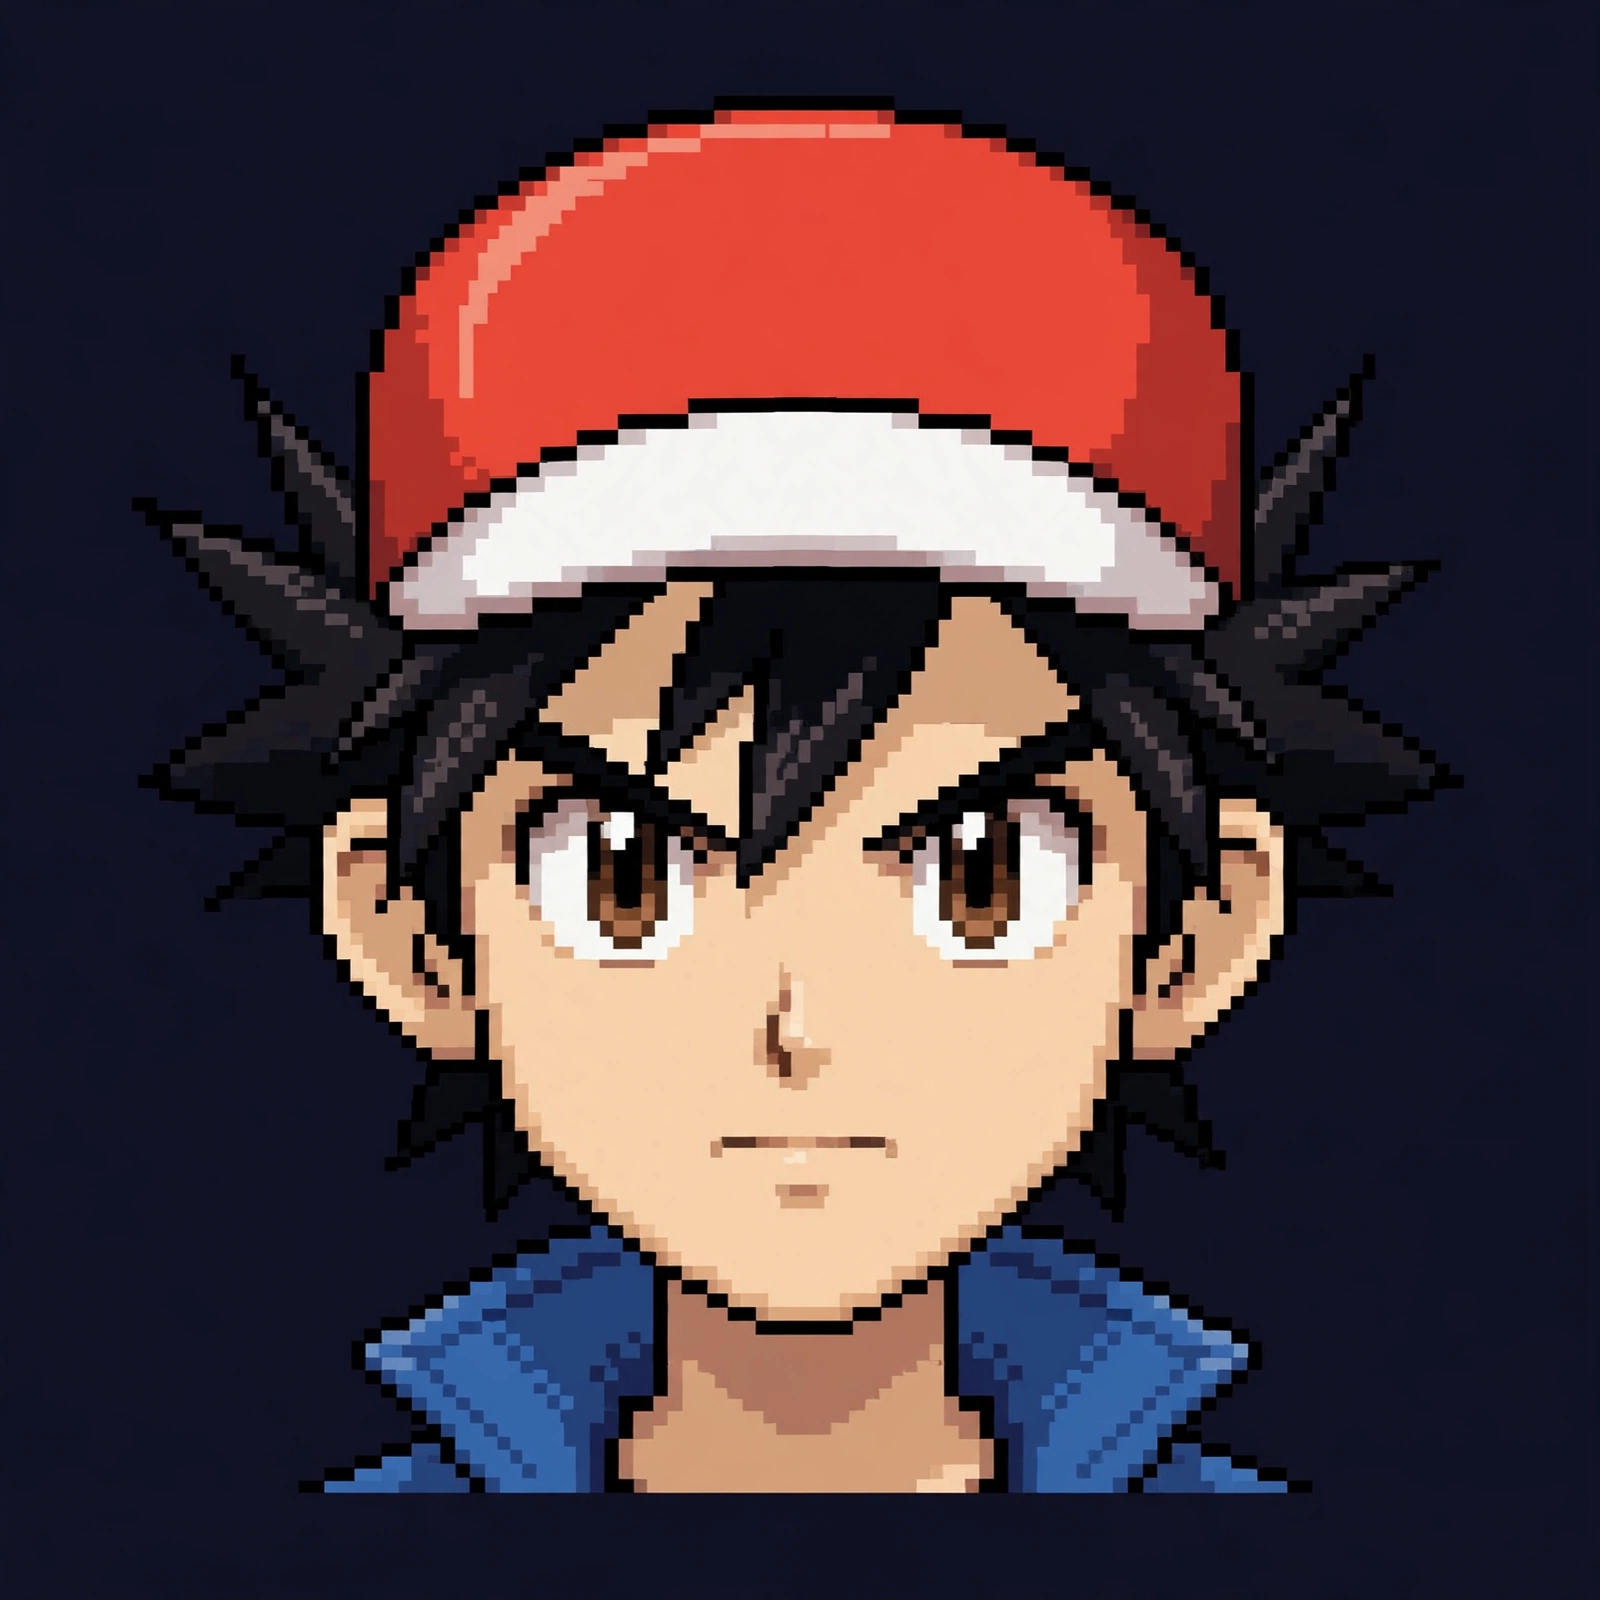
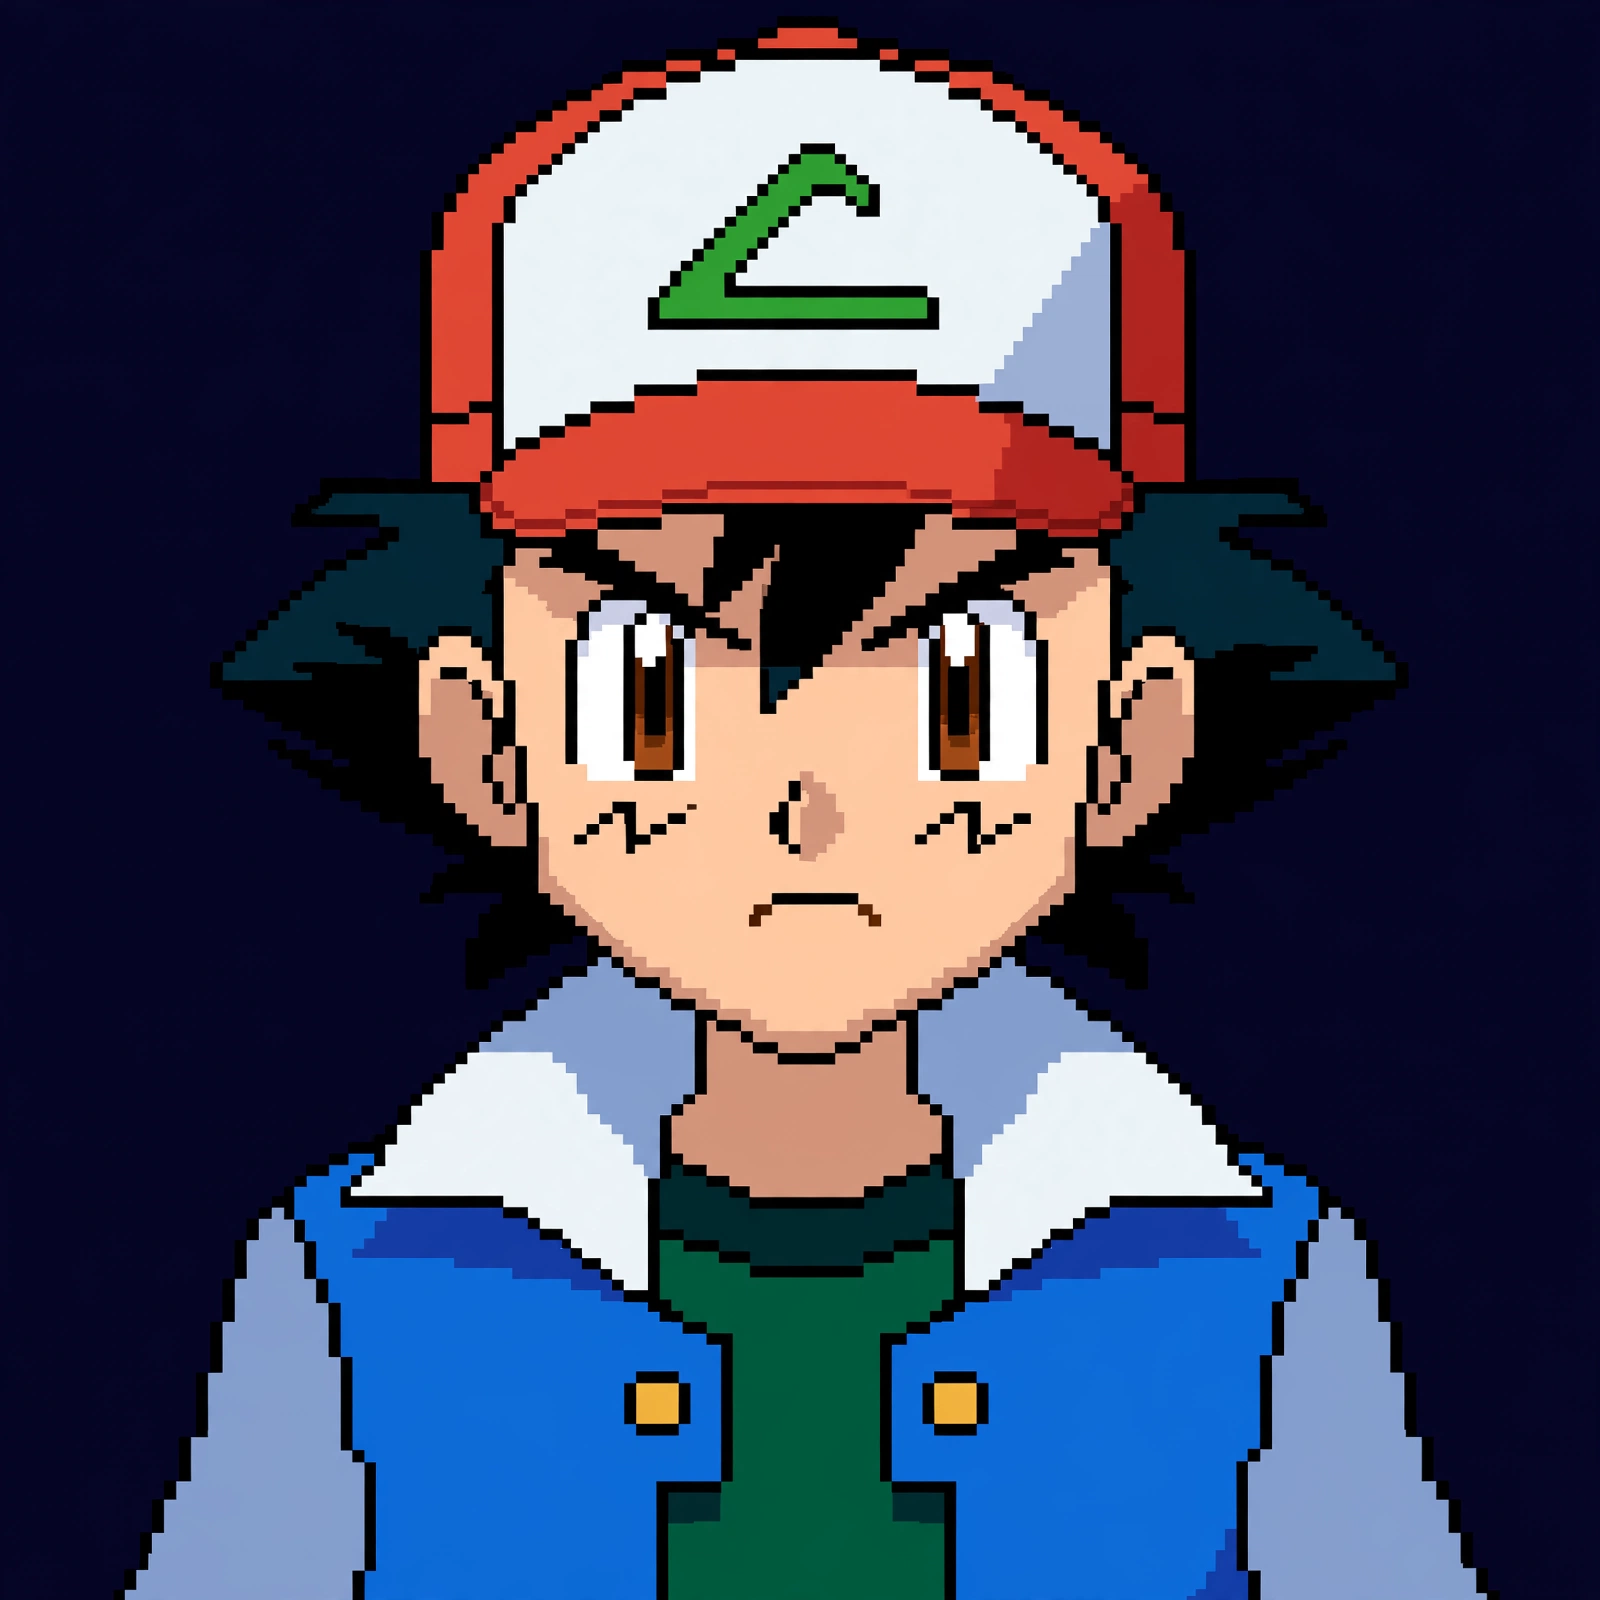
1세대 애니 스타일 트레이너 얼굴 교체

diff --git a/src/ui/main.js b/src/ui/main.js
@@ -1,12 +1,12 @@
 // DOM glue: renders controller state into regions, wires taps, and paces AI turns.
 
-import { CARDS } from '../data/cards.js?v=1791267915';
-import { ACHIEVEMENTS, checkAchievements } from '../data/achievements.js?v=1791267915';
-import { CHALLENGES, challengeWon } from '../data/challenges.js?v=1791267915';
-import { createController } from './controller.js?v=1791267915';
-import * as V from './view.js?v=1791267915';
-import { getBonuses, getPoints, bonusList } from '../core/engine.js?v=1791267915';
-import { browserStorage, loadDex, loadSave, saveGame, clearSave, recordCatch, recordGame, loadOptions, saveOptions, loadAchv, unlockAchv, loadRecords, recordResult, victoryScore, loadChal, completeChal } from '../storage/store.js?v=1791267915';
+import { CARDS } from '../data/cards.js?v=1791268011';
+import { ACHIEVEMENTS, checkAchievements } from '../data/achievements.js?v=1791268011';
+import { CHALLENGES, challengeWon } from '../data/challenges.js?v=1791268011';
+import { createController } from './controller.js?v=1791268011';
+import * as V from './view.js?v=1791268011';
+import { getBonuses, getPoints, bonusList } from '../core/engine.js?v=1791268011';
+import { browserStorage, loadDex, loadSave, saveGame, clearSave, recordCatch, recordGame, loadOptions, saveOptions, loadAchv, unlockAchv, loadRecords, recordResult, victoryScore, loadChal, completeChal } from '../storage/store.js?v=1791268011';
 
 const params = new URLSearchParams(location.search);
 const AI_DELAY = params.has('fast') ? 0 : 1600; // ?fast=1 skips the pacing delay (tests)

diff --git a/src/ui/view.js b/src/ui/view.js
@@ -1,12 +1,12 @@
 // Pure HTML-string renderers. Each takes the controller and returns markup; main.js owns the DOM.
 // All text interpolated here comes from our own card data / constants (no user input).
 
-import { COLORS, MASTER, PHASES, TOKEN_KEYS } from '../core/constants.js?v=1791267915';
-import { getBonuses, getPoints, tokenCount, bonusList, isSpecial } from '../core/engine.js?v=1791267915';
-import { BALLS, TRAINERS, evoText } from './controller.js?v=1791267915';
-import { dexSummary } from '../storage/store.js?v=1791267915';
-import { ACHIEVEMENTS } from '../data/achievements.js?v=1791267915';
-import { CHALLENGES, challengeProgress } from '../data/challenges.js?v=1791267915';
+import { COLORS, MASTER, PHASES, TOKEN_KEYS } from '../core/constants.js?v=1791268011';
+import { getBonuses, getPoints, tokenCount, bonusList, isSpecial } from '../core/engine.js?v=1791268011';
+import { BALLS, TRAINERS, evoText } from './controller.js?v=1791268011';
+import { dexSummary } from '../storage/store.js?v=1791268011';
+import { ACHIEVEMENTS } from '../data/achievements.js?v=1791268011';
+import { CHALLENGES, challengeProgress } from '../data/challenges.js?v=1791268011';
 
 const diffLabel = { easy: '쉬움', normal: '보통', hard: '어려움' };
 

diff --git a/src/ai/heuristic.js b/src/ai/heuristic.js
@@ -3,10 +3,10 @@
 // Works in every phase (action / discard / evolve); the UI drives AI turns with it.
 // Turn pacing (0.8s) lives in ui/main.js (AI_DELAY), not here.
 
-import { COLORS, MASTER, TOKEN_KEYS, PHASES, MAX_TOKENS, MAX_HAND, TIER_KEYS } from '../core/constants.js?v=1791267915';
+import { COLORS, MASTER, TOKEN_KEYS, PHASES, MAX_TOKENS, MAX_HAND, TIER_KEYS } from '../core/constants.js?v=1791268011';
 import {
   legalActions, getCurrentPlayer, getBonuses, bonusList, isSpecial, evolveOptions, tokenCount,
-} from '../core/engine.js?v=1791267915';
+} from '../core/engine.js?v=1791268011';
 
 const BASE_JITTER = 0.01; // breaks exact ties so the three AIs do not play identically
 

diff --git a/index.html b/index.html
@@ -7,7 +7,7 @@
 <title>포켓몬 스플렌더</title>
 <link rel="icon" href="assets/favicon.ico" sizes="any">
 <link rel="icon" type="image/png" href="assets/items/poke-ball.png">
-<link rel="stylesheet" href="css/style.css?v=1791267915">
+<link rel="stylesheet" href="css/style.css?v=1791268011">
 </head>
 <body>
 <div class="phone" id="app">
@@ -34,6 +34,6 @@
 </div>
 <div id="sheet"></div>
 <div id="overlay"></div>
-<script type="module" src="src/ui/main.js?v=1791267915"></script>
+<script type="module" src="src/ui/main.js?v=1791268011"></script>
 </body>
 </html>

diff --git a/src/core/engine.js b/src/core/engine.js
@@ -5,8 +5,8 @@ import {
   COLORS, MASTER, TOKEN_KEYS, MASTER_TOTAL, TOKENS_PER_COLOR, MAX_TOKENS, MAX_HAND,
   WIN_POINTS, TIER_KEYS, RESERVABLE_TIER_KEYS, TABLE_SLOTS, SPECIAL_TIER_KEYS, PHASES,
   RULE_CHOICES,
-} from './constants.js?v=1791267915';
-import { nextInt, shuffle } from './rng.js?v=1791267915';
+} from './constants.js?v=1791268011';
+import { nextInt, shuffle } from './rng.js?v=1791268011';
 
 const ok = (state, events) => ({ ok: true, state, events });
 const fail = (error) => ({ ok: false, error });

diff --git a/src/ui/controller.js b/src/ui/controller.js
@@ -5,8 +5,8 @@
 import {
   COLORS, MASTER, PHASES, MAX_HAND,
   createGame, applyAction, legalActions, computePayment, evolveOptions, getCurrentPlayer, tokenCount,
-} from '../core/index.js?v=1791267915';
-import { chooseAction } from '../ai/heuristic.js?v=1791267915';
+} from '../core/index.js?v=1791268011';
+import { chooseAction } from '../ai/heuristic.js?v=1791268011';
 
 export const BALLS = {
   monster: { file: 'poke-ball', name: '몬스터볼', short: '몬스터' },

diff --git a/src/core/index.js b/src/core/index.js
@@ -1,3 +1,3 @@
-export * from './constants.js?v=1791267915';
-export * from './rng.js?v=1791267915';
-export * from './engine.js?v=1791267915';
+export * from './constants.js?v=1791268011';
+export * from './rng.js?v=1791268011';
+export * from './engine.js?v=1791268011';
